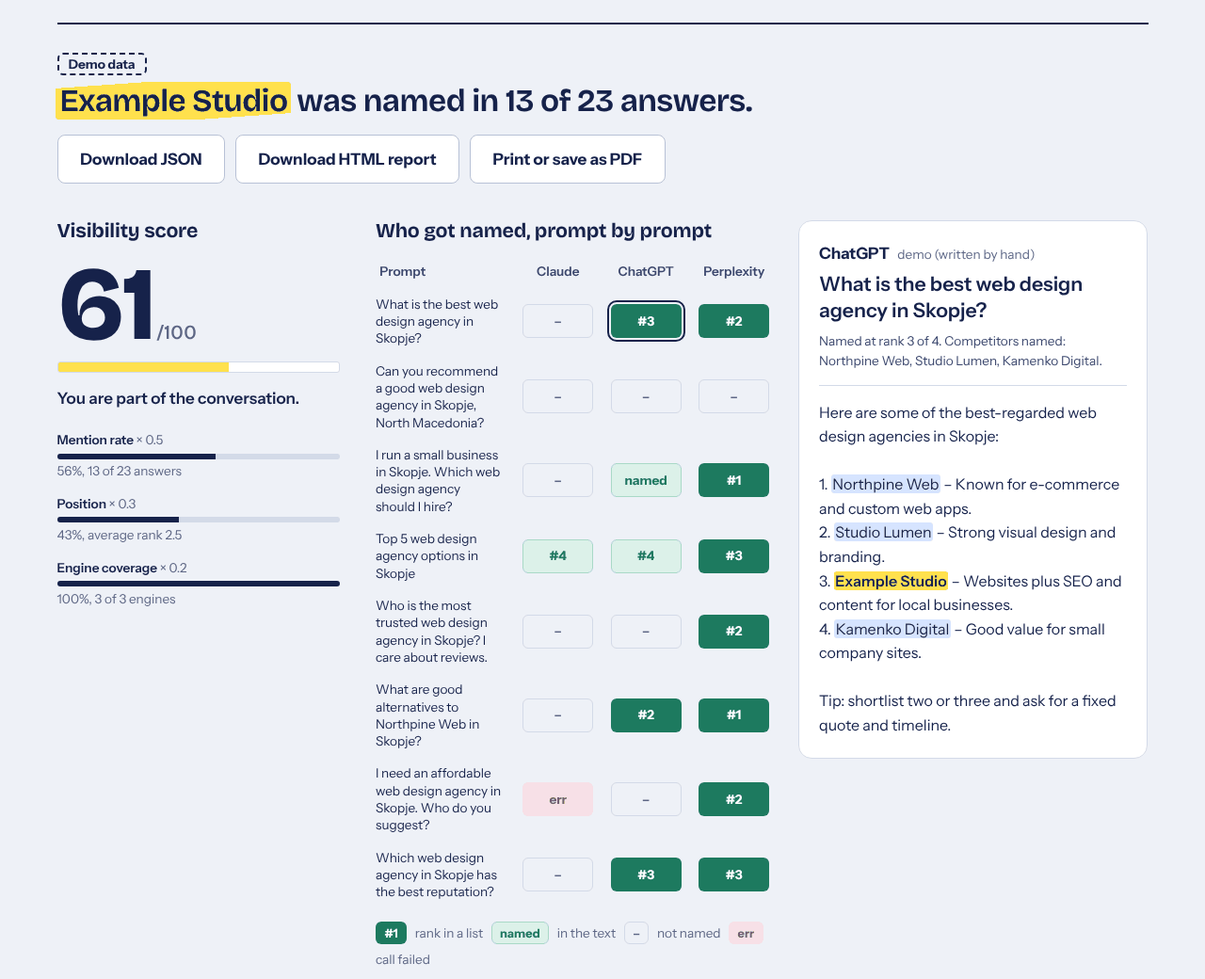
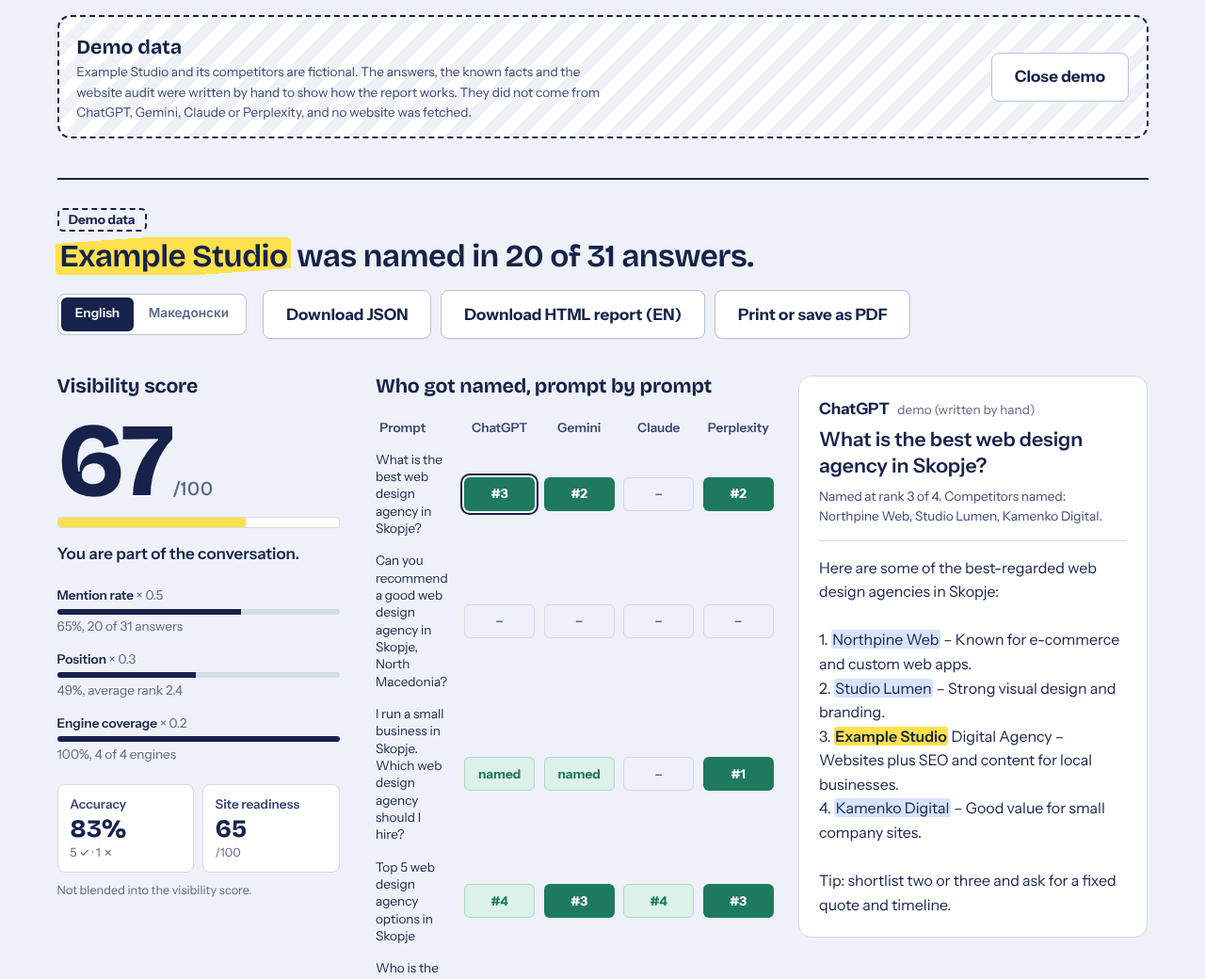
README: Gemini, fact check, website audit, sub-score formulas, MK/EN report; refresh screenshots
Documents the new features, every environment variable (Anthropic, OpenAI, Perplexity and
Gemini keys and models, GEMINI_GROUNDING, GEMINI_THINKING_LEVEL, PAGESPEED_API_KEY), the
Accuracy and Site readiness formulas with weights, the recommendation rules, the audit's
safety guards and the limitations: heuristic fact extraction, API answers differ from the
consumer apps, no Copilot API (covered through Bing only), one-page audit without JavaScript.
Screenshots are regenerated from the demo report in both languages.

Claude-Session: https://claude.ai/code/session_01Ee4r7j6gVSNwN5RU5eegL7

diff --git a/README.md b/README.md
@@ -1,10 +1,10 @@
 # AI Visibility Checker (GEO)
 
-Find out whether ChatGPT, Claude and Perplexity name your business when a customer asks them for a recommendation, and get a ranked list of what to fix.
+Find out whether ChatGPT, Gemini, Claude and Perplexity name your business when a customer asks them for a recommendation, whether the facts they state about you (prices, phone, name) are right, and what on your website to fix, with a report you can hand to a client in English or Macedonian.
 
 ![Demo report for the fictional Example Studio](docs/demo-report.png)
 
-*The screenshot shows **demo data**: Example Studio and its competitors are fictional, and the answers were written by hand. See [Demo mode](#demo-mode).*
+*The screenshots show **demo data**: Example Studio and its competitors are fictional, and the answers, known facts and website audit were written by hand. See [Demo mode](#demo-mode).*
 
 ## The problem
 
@@ -15,13 +15,17 @@ Optimising for these answers is often called **GEO** (generative engine optimisa
 ## What the tool does
 
 1. **You describe the business**: name, other spellings (for example the Cyrillic form), website, what customers look for, city, country, up to five competitors, and the prompt language (English or Macedonian).
-2. **It writes buyer-style prompts** from fixed templates: "What is the best web design agency in Skopje?", "What are good alternatives to Northpine Web in Skopje?" and so on. Default 8, maximum 15. Generation is deterministic, the business name is never put into a prompt (the point is to see whether the assistant brings you up by itself), and you can edit, add or remove prompts before running.
-3. **It asks each configured engine** (Anthropic Claude, OpenAI, Perplexity) every prompt through a Netlify Function. Keys stay on the server. Unconfigured engines are shown as unavailable.
-4. **It analyses every answer**: are you named, at what rank if the answer is a list, which competitors are named, which URLs were cited.
-5. **It scores the run** from 0 to 100, builds a share-of-voice table against your competitors, lists the sources the engines cited, and produces a prioritised checklist of fixes.
-6. **It exports** the full report as JSON, as a standalone HTML file, or as a PDF through the browser's print dialog (there is a print stylesheet that includes every answer).
+2. **Optionally, you enter known facts**: official name and allowed name variants, phone numbers, city and street address, and price items (label, amount, currency, per month or not). These are what the answers are checked against.
+3. **It writes buyer-style prompts** from fixed templates: "What is the best web design agency in Skopje?", "What are good alternatives to Northpine Web in Skopje?" and so on. Default 8, maximum 15. Generation is deterministic, the business name is never put into a prompt (the point is to see whether the assistant brings you up by itself), and you can edit, add or remove prompts before running.
+4. **It asks each configured engine** (OpenAI, Google Gemini, Anthropic Claude, Perplexity) every prompt through a Netlify Function. Keys stay on the server. Unconfigured engines are shown as unavailable.
+5. **It audits the website** in parallel (on by default, needs a domain): schema.org JSON-LD and its fields, `/llms.txt`, AI crawlers in `robots.txt`, Macedonian and English content, service and pricing pages, the brand names the site shows, phone numbers, HTTPS and mobile viewport, and optionally Google PageSpeed.
+6. **It analyses every answer**: are you named, at what rank, which competitors are named, which URLs were cited, and which phone numbers, prices, city and address it states near your name.
+7. **It scores the run** (visibility score 0 to 100, plus separate Accuracy and Site readiness sub-scores), builds a share-of-voice table, lists the cited sources, and produces a prioritised, evidence-based checklist of fixes in English and Macedonian, with items the audit shows are already done marked as done.
+8. **It exports** the full report as JSON, as a standalone HTML file in English or Macedonian, or as a PDF through the browser's print dialog.
 
 The result matrix fills in live as answers arrive. Click any cell to read the answer with your name highlighted in yellow and competitors in blue.
+
+![The business form with the optional Known facts section](docs/known-facts.png)
 
 ## How the analysis works
 
@@ -77,33 +81,121 @@ Bands: 0 to 19 *invisible*, 20 to 44 *emerging*, 45 to 69 *visible*, 70 to 100 *
 
 The formula lives in [`src/lib/scoring.ts`](src/lib/scoring.ts) and is covered by tests, including a worked example.
 
+The visibility score only looks at whether and where you are named. Accuracy and Site readiness are reported next to it, not mixed into it (see [Sub-scores](#sub-scores-not-blended-into-the-visibility-score)).
+
 ### Share of voice
 
 For the business and each competitor: the number of answers that name it, its share of all such mentions, and its average rank when listed.
 
+### Fact accuracy check ("Facts AI states about you")
+
+[`src/lib/facts.ts`](src/lib/facts.ts). For each answer that names the business:
+
+1. The answer is split into blocks: one per list item, heading section (`### Name` or a bold line like `**1. Name**` with its bullets), table row or paragraph.
+2. Around each mention of the business (name, other spellings, allowed variants, domain), a window is taken inside its block: 150 characters before and 400 after, or the whole list item when the name is in its first line, and cut where a listed competitor is named. So "NULA from €190, while Studio X charges €500" only gives NULA €190.
+3. Inside the windows it extracts:
+   - **prices**: `€190`, `190 €`, `190 EUR`, `од 190 евра`, `12.000 денари`, `12 000 ден.`, `$500`, ranges (`190-300 €`, `€300–400+`, `од 300 до 400 евра`), "from" (`from`, `starting at`, `од`, `почнувајќи од`) and per month (`/month`, `/mo`, `per month`, `monthly fee of`, `месечно`, `на месец`, `месечна претплата од`);
+   - **phone numbers** in local and international form (`073 745 473`, `+389 73 745 473`, `073/745-473`, `(02) 3123 456`, `+389 (0)73 ...`), compared by national digits;
+   - **city**, only when it comes with a location cue ("based in", "from", "со седиште во", "од"), so a city that just echoes the prompt is not counted; a small list of Macedonian towns and nearby capitals is used to spot a wrong one;
+   - **street address** (`ул.`, `улица`, `ul.`, `бул.`, `street`, `Address:`).
+4. Each claim is compared with the known facts:
+   - prices are matched to price items with the same per-month flag, preferring items whose label fits the surrounding words (English and Macedonian synonyms: web/сајт/страница, social/мрежи, shop/продавница, ...). The stated lower bound counts as **correct** within ±6% (at least €2) of your price. Denars are converted at a fixed **61.5 MKD/EUR**. A stated monthly price when you listed no monthly price, or a dollar price, is **unverified**;
+   - anything else that does not match is **possibly wrong, verify**. The tool never says a claim is certainly wrong.
+5. It also collects the **names the answers used** (the bold or link text around the mention, or the name plus the capitalised words after it, without the city) and labels each as official, allowed, or not your name. "NULA Digital Agency" when your site says "NULA" shows up here.
+
+Without known facts, the claims are still listed, marked as not checked.
+
+![Facts AI states about you, and the website readiness checklist (demo data)](docs/demo-facts.png)
+
+### Website audit (GEO checks)
+
+`POST /api/audit` ([`netlify/functions/audit.ts`](netlify/functions/audit.ts)) fetches the home page, `/llms.txt`, `/robots.txt` and the sitemap through the SSRF guard ported from nula-lead-finder ([`server/audit/`](server/audit)), and [`server/geo.ts`](server/geo.ts) reads:
+
+| Check | What is read |
+| --- | --- |
+| Business schema | JSON-LD (including `@graph`) with an Organization, LocalBusiness or subtype node |
+| Schema fields | `name`, `telephone`, `address`, `priceRange` or `makesOffer`/`offers`/`hasOfferCatalog`, `sameAs`; also `alternateName` |
+| llms.txt | `/llms.txt` returns 200, is not HTML and has content |
+| AI crawlers | `robots.txt` rules that disallow `/` for GPTBot, OAI-SearchBot, ChatGPT-User, ClaudeBot, Claude-SearchBot, PerplexityBot, Google-Extended, Googlebot, Bingbot, CCBot |
+| Languages | `<html lang>`, `hreflang` links, share of Cyrillic text, English words, language-switcher links (`EN`, `МК`, `/en/`) |
+| Service pages | same-site links whose path or text looks like a service or prices page (`/uslugi/...`, `/ceni`, "Веб дизајн", ...); in-page `#services` anchors are counted as sections, not pages |
+| Brand names | `<title>`, `og:site_name`, `application-name`, schema `name` |
+| Phone | `tel:` links and schema `telephone`, compared with your known phone |
+| HTTPS, mobile | final URL, http to https redirect, `width=device-width` viewport |
+| PageSpeed | Google PageSpeed Insights (mobile), only when `PAGESPEED_API_KEY` is set |
+
+A side file that times out is "unknown", not "missing".
+
+### Sub-scores (not blended into the visibility score)
+
+**Accuracy**, shown as a percentage:
+
+```
+accuracy = round(100 × correct ÷ (correct + possibly wrong))
+```
+
+over all price, phone, city and address claims in this run. Unverified claims are left out. It is empty ("–") when nothing could be checked.
+
+**Site readiness**, 0 to 100:
+
+```
+readiness = round(100 × Σ weight(passed checks) ÷ Σ weight(passed + failed checks))
+```
+
+| Check | Weight |
+| --- | --- |
+| Business schema present | 2 |
+| Schema has name, telephone, address, prices, sameAs (all five) | 2 |
+| `/llms.txt` present | 1 |
+| No AI crawler blocked in robots.txt (no robots.txt counts as a pass) | 1 |
+| Macedonian and English content | 1 |
+| At least two service pages (the prices page does not count) | 1 |
+| Prices published (a prices page, or prices in schema) | 1 |
+| One brand name on the site (title contains it; og:site_name and schema name equal it or an allowed variant) | 1 |
+| Phone on the home page (your known phone, if entered) | 0.5 |
+| HTTPS, and http redirects to https | 0.5 |
+| Mobile viewport | 0.5 |
+
+Checks that could not be evaluated are left out of both sums. The formula lives in [`src/lib/readiness.ts`](src/lib/readiness.ts).
+
+The two sub-scores stay separate on purpose: a well-prepared site can still be invisible, and a well-known business can be named with a bare site.
+
 ### Recommendations
 
-Recommendations come from a fixed catalogue in [`src/lib/recommendations.ts`](src/lib/recommendations.ts). Nothing is generated per run. Rules decide which items apply and at what priority, and the reason quotes the run's own numbers:
+[`src/lib/recommendations.ts`](src/lib/recommendations.ts) is a rule engine with no LLM. Each item has an id, priority, status (to do, or **done** when this run's evidence shows it is in place), a title, a "why" that quotes this run's evidence, and concrete steps, all in English and Macedonian. Schema and llms.txt items include a copy-paste draft built from your known facts (never with invented URLs).
 
-| Item | Raised when |
+| Item | Raised when / evidence used |
 | --- | --- |
-| Google Business Profile | Always; high below 50% mention rate, medium if rarely near the top |
-| LocalBusiness structured data (schema.org) | Always; high below 25% mention rate, medium below 60% or when engines cite sources but never your site |
-| Reviews | A competitor is named more often (or as often at a better rank), your average rank is worse than 2, or mention rate is below 50% |
-| One clear page per service | Mention rate below 60%, or some engines name you and others never do |
-| Directory listings and citations | Engines cited sources but never your site (the most-cited domains are listed as places to get listed), or mention rate below 50% |
-| Consistent name, address, phone (NAP) | Always; high when some engines name you and others do not |
-| Macedonian-language content | Macedonian prompts and mention rate below 50% |
-| llms.txt | Always, medium or low; it is cheap, but not every assistant reads it yet |
+| Correct the facts AI gets wrong | Any "possibly wrong" claim, quoted (“Gemini stated "€300–400 per month"; your price for Social media management is from €150/month”). Steps say where to update: the prices page found by the audit, Google Business Profile (Gemini), Bing (ChatGPT search), the cited sources (Perplexity), schema and llms.txt. Done when every checked fact was correct |
+| Google Business Profile | Always. High below 50% mention rate, when Gemini answered but never named you, or when Gemini stated wrong facts (Gemini relies on Google data). Lists your services with prices for the profile |
+| LocalBusiness schema | From the audit: missing schema, missing fields by name, or a schema phone that differs from yours. Done when complete. Without an audit, from the mention rate |
+| Name, address, phone | Name variants the answers used, other names on the site, a different phone on the home page, or engines that disagree. Done when every answer used an allowed name |
+| AI crawlers | Bots blocked in robots.txt. Done when none are |
+| Reviews | A competitor named more often or ranked better, average rank worse than 2, or mention rate below 50% |
+| One page per service | From the audit: fewer than two service pages, services as #sections, and known price items with no page of their own. Done otherwise |
+| Directory listings | Domains cited in answers that did **not** name you, with counts; your site never cited |
+| Macedonian and English | From the audit (only one language found). Without an audit, Macedonian prompts and low mention rate |
+| llms.txt | From the audit. Done when present |
+| Bing Webmaster Tools and Bing Places | Always (Copilot answers from Bing; this tool cannot test Copilot) |
+| Speed and mobile | Only when the audit finds no viewport, no HTTPS, PageSpeed performance below 50 or LCP above 4 s. Done when PageSpeed ran and was fine |
+
+### Report language
+
+The app's controls stay in English. The report (on screen, HTML export and print/PDF), the recommendations and the fact check switch between **English and Македонски** with the toggle above the results. Report text lives in [`src/lib/i18n.ts`](src/lib/i18n.ts); recommendations carry both languages, so the JSON export has both.
+
+![The same demo report in Macedonian](docs/demo-report-mk.png)
 
 ## Limitations
 
 - **Answers are not deterministic.** The same prompt can produce a different list a minute later. A report is a snapshot of one run. Run the same prompts every few weeks and compare trends, not single answers.
-- **API answers are not app answers.** The APIs do not see a user's location, history or memory, and the consumer apps may use different models, system prompts and search. Claude and OpenAI answer from model knowledge unless you turn on OpenAI web search (`OPENAI_WEB_SEARCH=true`); Perplexity always searches the web.
-- **Each run costs money.** A run makes `prompts × engines` API calls (24 with the defaults), billed to your keys. Output is capped by `MAX_OUTPUT_TOKENS`; web search and larger models cost more. Check each provider's current pricing.
+- **API answers are not app answers.** The APIs do not see a user's location, history or memory, and the consumer apps may use different models, system prompts and search. Claude and OpenAI answer from model knowledge unless you turn on OpenAI web search (`OPENAI_WEB_SEARCH=true`); Gemini answers from model knowledge unless `GEMINI_GROUNDING=true`; Perplexity always searches the web. A manual check in the ChatGPT or Gemini app can give a different answer.
+- **No Copilot.** Microsoft Copilot has no public API for this. It is covered only indirectly, through the Bing Webmaster Tools / Bing Places recommendation.
+- **Fact extraction is heuristic.** Text rules find prices and phones near your name. A price for a competitor or a generic market price in the same paragraph can be attributed to you, which is why the status is "possibly wrong, verify". Prices written in words ("two hundred euros"), in images, or far from the name are missed. Denars use a fixed 61.5 MKD/EUR; dollar prices are only compared with dollar prices.
+- **The audit reads one page.** It checks the home page and the files next to it (`llms.txt`, `robots.txt`, sitemap), not every page, and it does not run JavaScript, so content rendered only in the browser (some single-page apps) is invisible to it, as it is to many crawlers. Sites that block automated requests return an error.
+- **Each run costs money.** A run makes `prompts × engines` API calls (32 with the defaults and four engines), billed to your keys. Output is capped by `MAX_OUTPUT_TOKENS`; web search, grounding (Gemini 3 and newer bill per search query) and larger models cost more. Check each provider's current pricing.
 - **Matching is heuristic.** Fuzzy matching can, rarely, match a similarly named business. Names that sound alike but are spelled differently across scripts (for example "Example" and "Егзампл") need to be added as other spellings.
 - **Prompts that name a competitor** ("alternatives to Northpine Web") usually get that competitor repeated in the answer, which counts toward its share of voice.
-- **The rate limit is in memory** and per function instance. It slows casual abuse; it is not a security boundary. Put the deployment behind authentication or a WAF if you share it publicly with your keys.
+- **The rate limits are in memory** and per function instance. They slow casual abuse; they are not a security boundary. Put the deployment behind authentication or a WAF if you share it publicly with your keys.
 - **Provider APIs change.** Model names are environment variables for that reason. Perplexity has announced that Sonar Chat Completions is being moved to its Agent API; if the default endpoint stops working, set `PERPLEXITY_API_URL` or update `server/providers.ts`.
 
 ## Run it locally
@@ -112,7 +204,7 @@ Requirements: Node.js 20 or newer.
 
 ```bash
 npm install
-npm run dev            # UI only, at http://localhost:5173 (no engines; the demo report works)
+npm run dev            # UI only, at http://localhost:5173 (no engines or audit; the demo report works)
 ```
 
 To call real engines locally, run the UI and the functions together with the Netlify CLI:
@@ -146,10 +238,17 @@ All variables are read by the Netlify Functions only. None is sent to the browse
 | `PERPLEXITY_API_KEY` | | Enables Perplexity |
 | `PERPLEXITY_MODEL` | `sonar` | Perplexity model ID |
 | `PERPLEXITY_API_URL` | `https://api.perplexity.ai/v1/sonar` | Endpoint for Sonar requests |
+| `GEMINI_API_KEY` | | Enables Gemini (Gemini API `generateContent`, key sent in the `x-goog-api-key` header) |
+| `GEMINI_MODEL` | `gemini-3.8-flash` | Gemini model ID |
+| `GEMINI_GROUNDING` | `false` | `true` adds Grounding with Google Search (closer to the Gemini app; search queries are billed). Grounding sources are reported by domain, because Google returns expiring redirect links |
+| `GEMINI_THINKING_LEVEL` | `low` | Sent as `generationConfig.thinkingConfig.thinkingLevel`; set it empty to omit it |
+| `PAGESPEED_API_KEY` | | Optional. Adds Google PageSpeed Insights (mobile) to the website audit. The GEO checks run without it |
 | `ENGINE_TIMEOUT_MS` | `20000` | Timeout per engine call (2,000 to 28,000; Netlify stops synchronous functions at 30 s) |
 | `MAX_OUTPUT_TOKENS` | `900` | Output cap per answer |
 | `RATE_LIMIT_REQUESTS` | `45` | Requests per IP per window (one request is one prompt) |
 | `RATE_LIMIT_WINDOW_MS` | `900000` | Rate-limit window (15 minutes) |
+
+The website audit has its own fixed limit: 12 audits per IP per 15 minutes.
 
 Default model IDs were checked against the providers' documentation in November 2026. Models are renamed often; override them here rather than in code.
 
@@ -158,40 +257,46 @@ Default model IDs were checked against the providers' documentation in November 
 1. Push the repository to GitHub.
 2. In Netlify, choose **Add new site → Import an existing project** and pick the repository. `netlify.toml` already sets the build command (`npm run build`), the publish directory (`dist`) and the functions directory (`netlify/functions`).
 3. Under **Site configuration → Environment variables**, add the keys for the engines you want (any subset). Mark them as secret.
-4. Deploy. The header shows which engines are live. With no keys, live checks are disabled and the demo report is offered instead.
+4. Optionally add `PAGESPEED_API_KEY` for PageSpeed in the website audit.
+5. Deploy. The header shows which engines are live. With no keys, live checks are disabled and the demo report is offered instead.
 
 ## Safety guards
 
 - API keys exist only in function environment variables; `/api/engines` returns engine names and models, never keys.
-- One prompt per request, at most 300 characters, at most 3 engines, at most 15 prompts per run (tracked per run ID and IP), JSON bodies up to 4 KB.
+- One prompt per request, at most 300 characters, at most 4 engines, at most 15 prompts per run (tracked per run ID and IP), JSON bodies up to 4 KB.
+- The website audit only fetches public http(s) URLs: no credentials, standard ports only, no local or private hostnames or IPs (decimal, hex, octal and IPv6 forms included), every DNS answer must be public, a connect-time lookup blocks DNS rebinding, every redirect (at most 5) is checked again, 8 s timeout for the page and 5 s for side files, 2 MB cap on the page and 64 KB on side files after decompression, and only HTML/text bodies are read. Errors are returned as fixed messages without internal details.
 - In-memory rate limit per IP, a timeout on every engine call, and `Promise.allSettled` so one failing engine never breaks a run.
-- Cross-origin browser requests are rejected. Provider error messages are shortened and scrubbed of anything that looks like a key.
+- Cross-origin browser requests are rejected. Provider error messages are shortened and scrubbed of anything that looks like a key (including Google `AIza...` keys).
 - Everything rendered from an answer is treated as text; the HTML export escapes every value.
 
 ## Demo mode
 
-When no engine has a key, the app offers **Open demo report**. It loads a bundled example for **Example Studio, Skopje**, a fictional business, with fictional competitors (Northpine Web, Studio Lumen, Kamenko Digital, Vardar Web Lab) on reserved `.example` domains. The 24 answers were written by hand to exercise the analysers: a list, a table, a prose mention, a typo match, a Cyrillic alias and one failed call. They did not come from any AI engine. The UI, the HTML export and the export file name all carry a "demo data" label. The demo runs through the same analysis code as a live run.
+When no engine has a key, the app offers **Open demo report**. It loads a bundled example for **Example Studio, Skopje**, a fictional business, with fictional competitors (Northpine Web, Studio Lumen, Kamenko Digital, Vardar Web Lab) on reserved `.example` domains. The 32 answers (8 prompts × ChatGPT, Gemini, Claude, Perplexity) were written by hand to exercise the analysers: lists, a table, Gemini-style bold headings with bullets, a prose mention, a typo match, a Cyrillic alias, one failed call, a longer name variant ("Example Studio Digital Agency"), a correct €190 price and phone, a denar price, and a Gemini social-media price of €300–400 per month against a known €150/month. The known facts and the website audit are invented too, and no website is fetched. None of it came from an AI engine. The UI, the HTML export (both languages) and the export file name all carry a "demo data" label. The demo runs through the same analysis code as a live run.
 
 ## Project structure
 
 ```
 src/
-  lib/            prompts, normalisation, mention and list analysis, scoring,
-                  recommendations, report building and export (pure, tested)
+  lib/            prompts, normalisation, mention and list analysis, scoring, fact check
+                  (facts.ts), site readiness (readiness.ts), recommendations, report text
+                  (i18n.ts), report building and export (pure, tested)
   components/     React UI
   demo/           bundled, clearly labelled demo data
 server/           provider requests and parsing, config, validation, rate limiting
-netlify/functions engines.ts (GET /api/engines), ask.ts (POST /api/ask)
-tests/            Vitest suites
+  geo.ts          GEO checks on fetched HTML, robots.txt and llms.txt (pure, tested)
+  audit/          SSRF-guarded fetch, HTML analysis and PageSpeed, ported from nula-lead-finder
+                  as plain .mjs with .d.mts types
+netlify/functions engines.ts (GET /api/engines), ask.ts (POST /api/ask), audit.ts (POST /api/audit)
+tests/            Vitest suites (.ts, plus the ported .mjs audit suites)
 ```
 
-The browser sends one prompt per request to `/api/ask` (three at a time), the function fans out to the selected engines in parallel and returns raw answers, and the browser runs the analysis. That keeps each function call well under Netlify's time limit and lets the matrix fill in live.
+The browser sends one prompt per request to `/api/ask` (three at a time), the function fans out to the selected engines in parallel and returns raw answers, and the browser runs the analysis. The audit is one request to `/api/audit`, sent at the same time. That keeps each function call well under Netlify's time limit and lets the matrix fill in live.
 
 ## Tech stack
 
 - React 19, TypeScript (strict), Vite
 - Plain CSS, self-hosted fonts (Bricolage Grotesque, Instrument Sans, JetBrains Mono via Fontsource)
-- Netlify Functions (TypeScript), provider APIs called with `fetch`, no SDKs
+- Netlify Functions (TypeScript), provider APIs called with `fetch`, no SDKs; the audit uses Node `http`/`https` with a guarded DNS lookup
 - Vitest, ESLint (typescript-eslint), GitHub Actions
 
 ## Author
